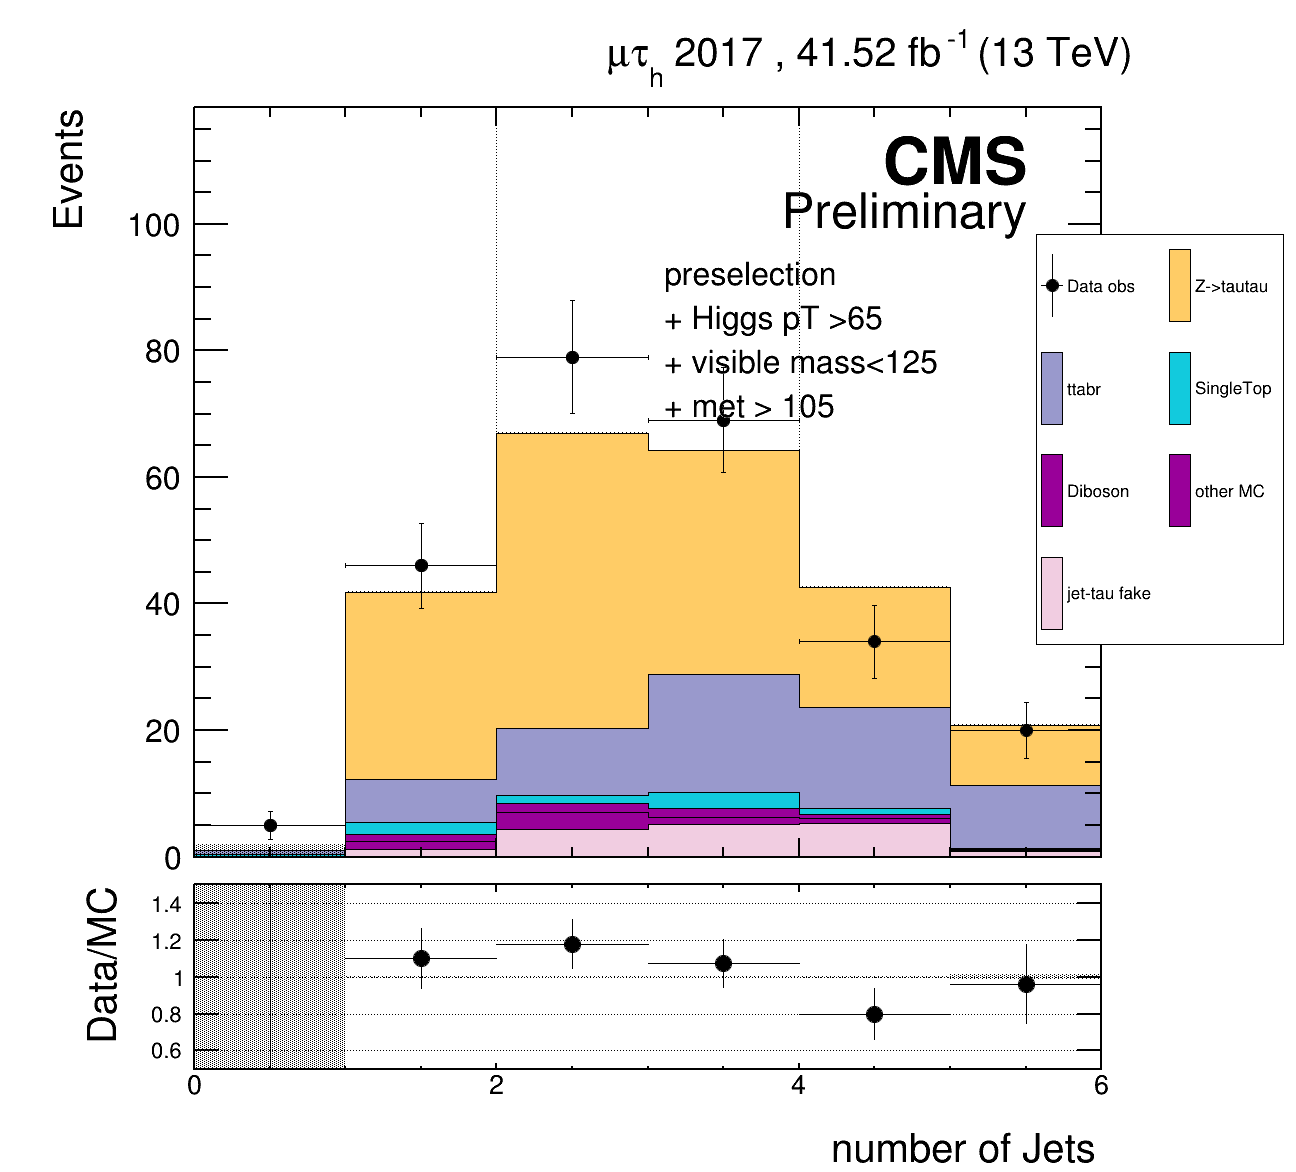
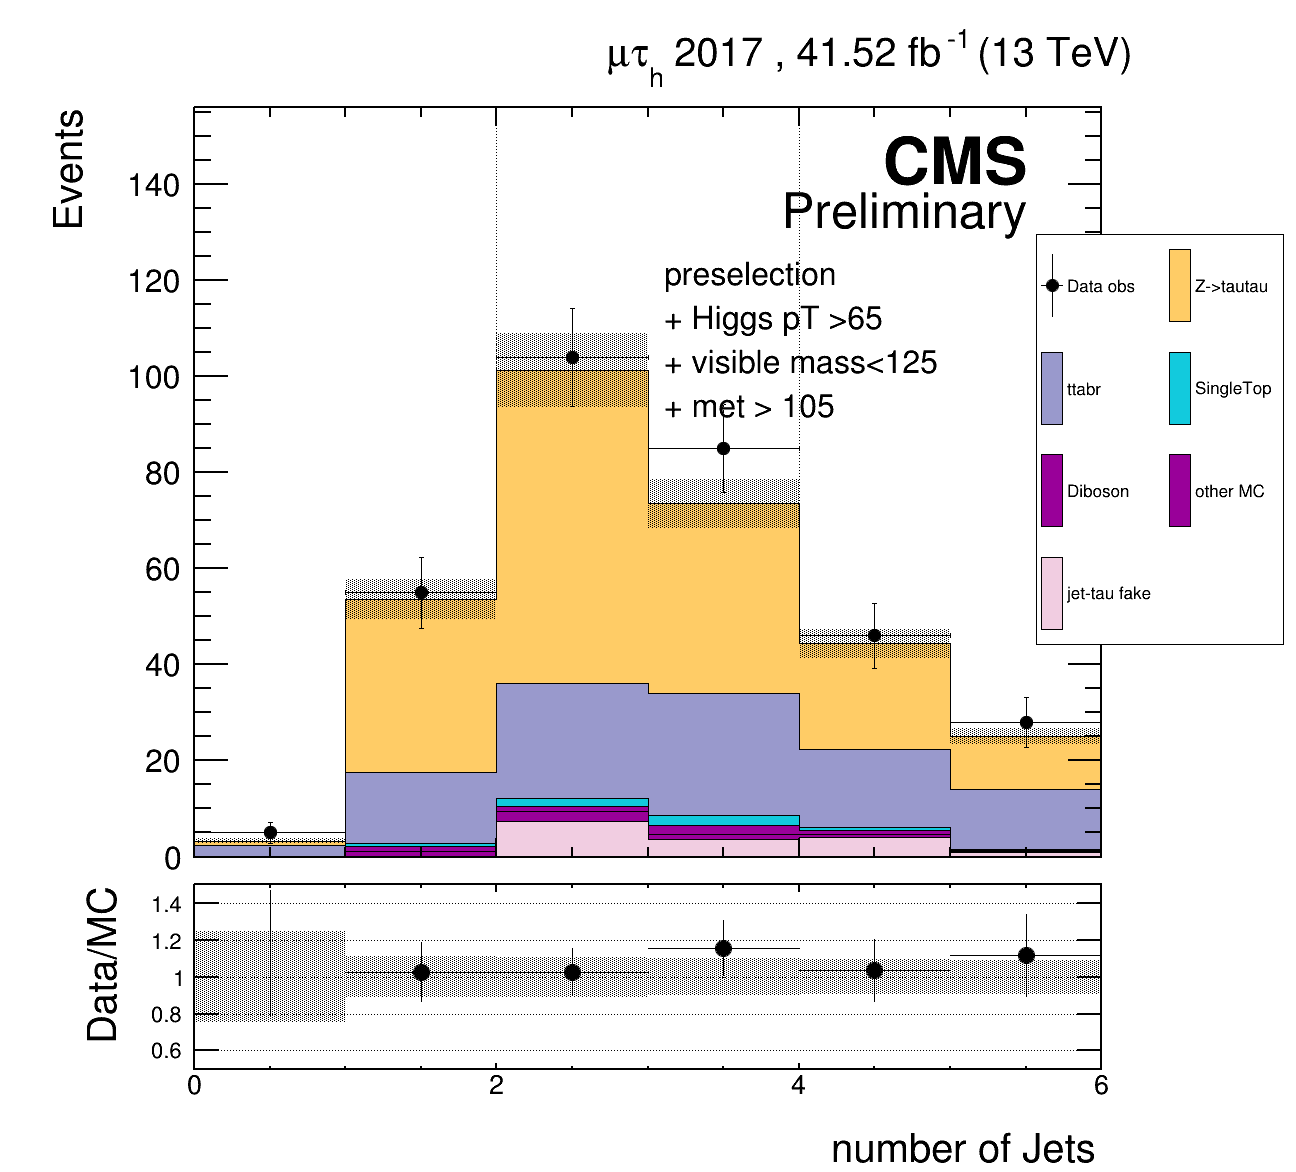
updates systematics

diff --git a/display_plots.html b/display_plots.html
@@ -29,37 +29,13 @@
     <div class="row">
     
 <div class="column">
-<img src="postanalyzer/plotting_script/plots/plot_muPt_5_mutau.png" style="width:100%">
-</div>
-
-<div class="column">
-<img src="postanalyzer/plotting_script/plots/plot_muPt_7_mutau.png" style="width:100%">
-</div>
-
-<div class="column">
-<img src="postanalyzer/plotting_script/plots/plot_muPt_8_mutau.png" style="width:100%">
-</div>
-
-<div class="column">
 <img src="postanalyzer/plotting_script/plots/plot_muPt_9_mutau.png" style="width:100%">
 </div>
 
     </div>
     
     <div class="row">
-    
-<div class="column">
-<img src="postanalyzer/plotting_script/plots/plot_met_5_mutau.png" style="width:100%">
-</div>
-
-<div class="column">
-<img src="postanalyzer/plotting_script/plots/plot_met_7_mutau.png" style="width:100%">
-</div>
-
-<div class="column">
-<img src="postanalyzer/plotting_script/plots/plot_met_8_mutau.png" style="width:100%">
-</div>
-
+  
 <div class="column">
 <img src="postanalyzer/plotting_script/plots/plot_met_9_mutau.png" style="width:100%">
 </div>
@@ -69,36 +45,13 @@
     <div class="row">
     
 <div class="column">
-<img src="postanalyzer/plotting_script/plots/plot_higgsPt_5_mutau.png" style="width:100%">
-</div>
-
-<div class="column">
-<img src="postanalyzer/plotting_script/plots/plot_higgsPt_7_mutau.png" style="width:100%">
-</div>
-
-<div class="column">
-<img src="postanalyzer/plotting_script/plots/plot_higgsPt_8_mutau.png" style="width:100%">
-</div>
-
-<div class="column">
 <img src="postanalyzer/plotting_script/plots/plot_higgsPt_9_mutau.png" style="width:100%">
 </div>
 
     </div>
     
     <div class="row">
-    
-<div class="column">
-<img src="postanalyzer/plotting_script/plots/plot_mT_muMet_5_mutau.png" style="width:100%">
-</div>
-
-<div class="column">
-<img src="postanalyzer/plotting_script/plots/plot_mT_muMet_7_mutau.png" style="width:100%">
-</div>
-
-<div class="column">
-<img src="postanalyzer/plotting_script/plots/plot_mT_muMet_8_mutau.png" style="width:100%">
-</div>
+ 
 
 <div class="column">
 <img src="postanalyzer/plotting_script/plots/plot_mT_muMet_9_mutau.png" style="width:100%">
@@ -107,19 +60,7 @@
     </div>
     
     <div class="row">
-    
-<div class="column">
-<img src="postanalyzer/plotting_script/plots/plot_tauPt_5_mutau.png" style="width:100%">
-</div>
-
-<div class="column">
-<img src="postanalyzer/plotting_script/plots/plot_tauPt_7_mutau.png" style="width:100%">
-</div>
-
-<div class="column">
-<img src="postanalyzer/plotting_script/plots/plot_tauPt_8_mutau.png" style="width:100%">
-</div>
-
+  
 <div class="column">
 <img src="postanalyzer/plotting_script/plots/plot_tauPt_9_mutau.png" style="width:100%">
 </div>
@@ -129,18 +70,6 @@
     <div class="row">
     
 <div class="column">
-<img src="postanalyzer/plotting_script/plots/plot_metLongXaxis_5_mutau.png" style="width:100%">
-</div>
-
-<div class="column">
-<img src="postanalyzer/plotting_script/plots/plot_metLongXaxis_7_mutau.png" style="width:100%">
-</div>
-
-<div class="column">
-<img src="postanalyzer/plotting_script/plots/plot_metLongXaxis_8_mutau.png" style="width:100%">
-</div>
-
-<div class="column">
 <img src="postanalyzer/plotting_script/plots/plot_metLongXaxis_9_mutau.png" style="width:100%">
 </div>
 
@@ -149,18 +78,6 @@
     <div class="row">
     
 <div class="column">
-<img src="postanalyzer/plotting_script/plots/plot_visMass_5_mutau.png" style="width:100%">
-</div>
-
-<div class="column">
-<img src="postanalyzer/plotting_script/plots/plot_visMass_7_mutau.png" style="width:100%">
-</div>
-
-<div class="column">
-<img src="postanalyzer/plotting_script/plots/plot_visMass_8_mutau.png" style="width:100%">
-</div>
-
-<div class="column">
 <img src="postanalyzer/plotting_script/plots/plot_visMass_9_mutau.png" style="width:100%">
 </div>
 
@@ -168,18 +85,6 @@
     
     <div class="row">
     
-<div class="column">
-<img src="postanalyzer/plotting_script/plots/plot_nJet_5_mutau.png" style="width:100%">
-</div>
-
-<div class="column">
-<img src="postanalyzer/plotting_script/plots/plot_nJet_7_mutau.png" style="width:100%">
-</div>
-
-<div class="column">
-<img src="postanalyzer/plotting_script/plots/plot_nJet_8_mutau.png" style="width:100%">
-</div>
-
 <div class="column">
 <img src="postanalyzer/plotting_script/plots/plot_nJet_9_mutau.png" style="width:100%">
 </div>
